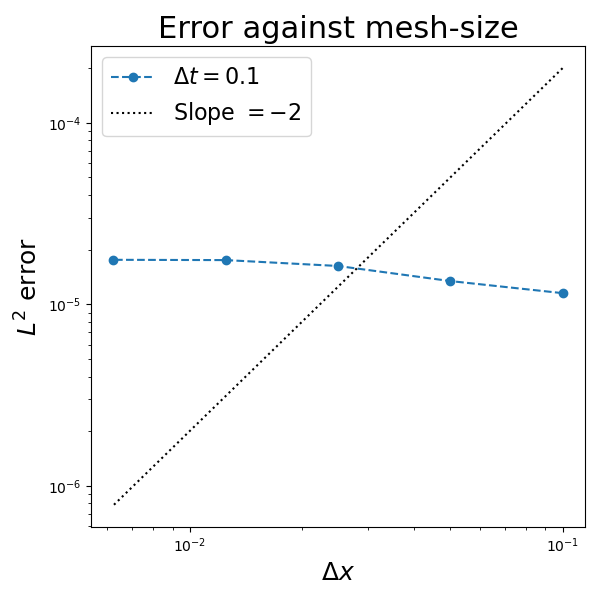
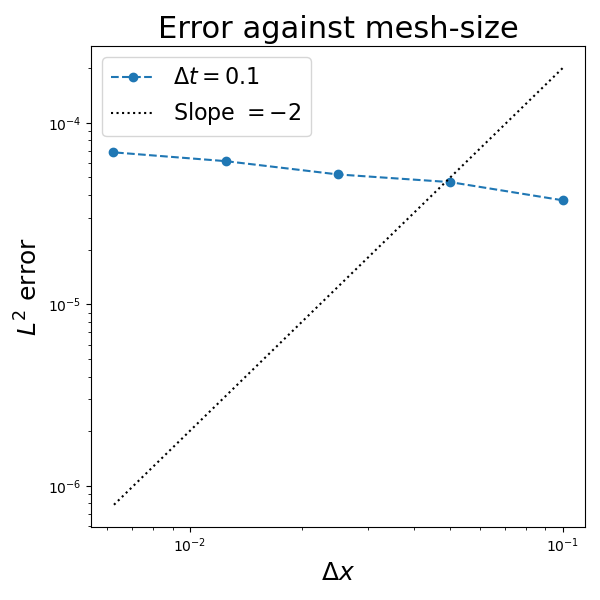
small update

diff --git a/richards_example.py b/richards_example.py
@@ -91,7 +91,7 @@ itime = 0
 
 L2_error = []
 
-dt = 0.01
+dt = 0.02
 t = 0
 T = 1
 
